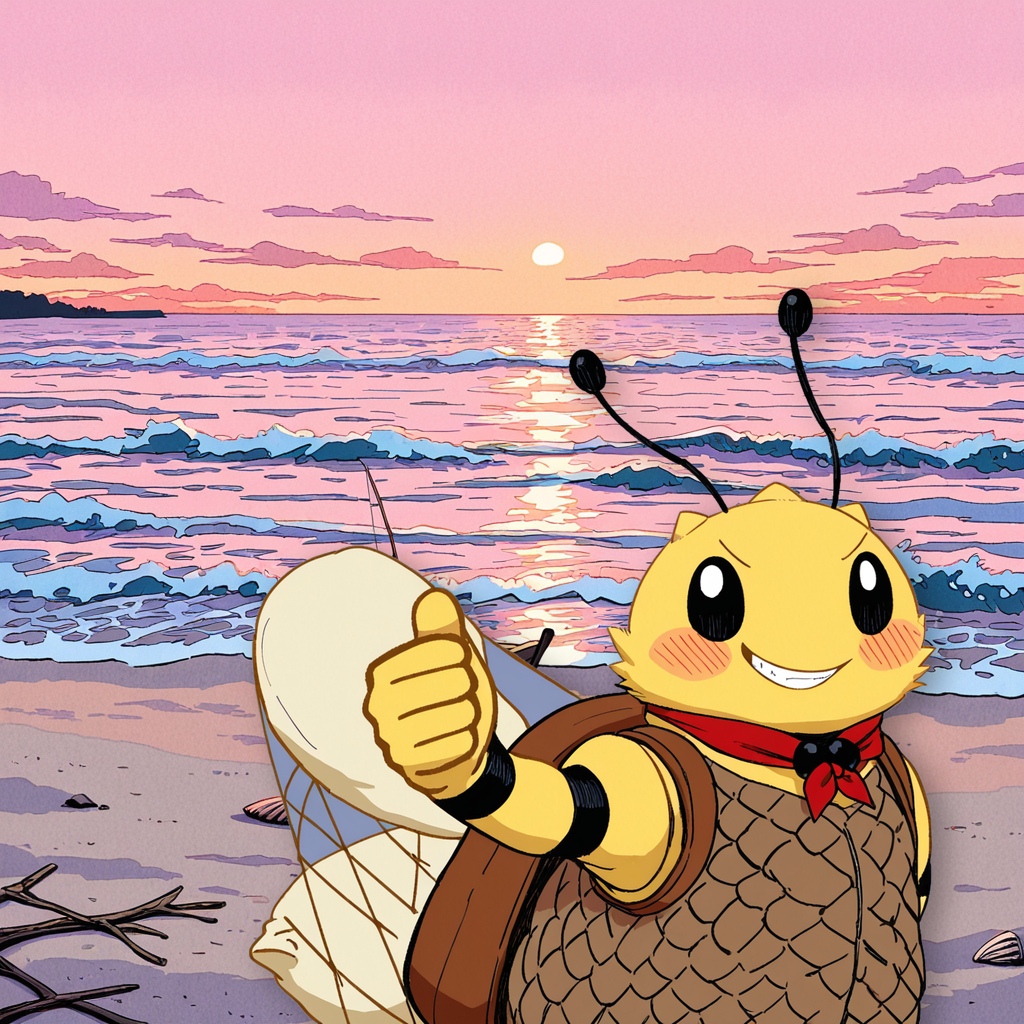
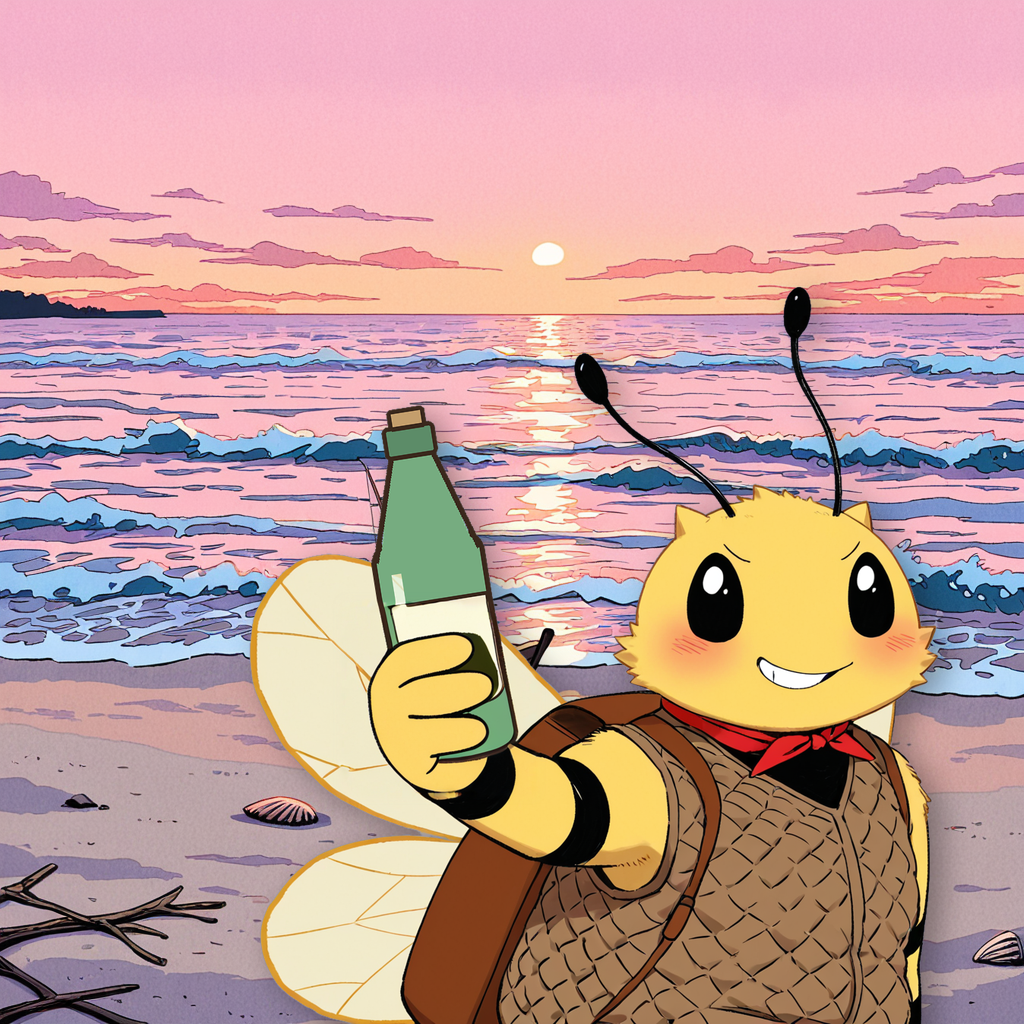
Season 1 art test: Clean Shore holds up a collected bottle
Claude-Session: https://claude.ai/code/session_01HWHP3iugw8gkvvKKS5vpBj

diff --git a/art/season1/bottle.py b/art/season1/bottle.py
@@ -1,0 +1,30 @@
+#!/usr/bin/env python3
+"""Season 1, Clean Shore: the collected bottle. The net of bottles failed painted (fix.py) and drawn (props.py shore), so the idea is
+simpler: the Vanguard holds up one bottle found on the beach. A glass bottle is drawn over a Vanguard render with a raised fist and
+the fist put back on top (as pole.py); fix.py with DENOISE=0.68 then wraps the fingers around it.
+Usage (WebUI venv python): bottle.py <render.png> <fist x0,y0,x1,y1> → clean_shore_bee_bottle.png"""
+import sys, pathlib
+import numpy as np, cv2
+from PIL import Image, ImageDraw, ImageFilter
+D = pathlib.Path(__file__).parent; INK = (58, 40, 28, 255); GLASS = (118, 172, 128, 255)
+src = Image.open(D/sys.argv[1]).convert("RGB"); x0, y0, x1, y1 = [int(v) for v in sys.argv[2].split(",")]
+a = np.asarray(src); hsv = cv2.cvtColor(a, cv2.COLOR_RGB2HSV)
+fist = (((hsv[..., 1] > 110) & (hsv[..., 0] > 12) & (hsv[..., 0] < 40)) | (hsv[..., 2] < 70)).astype(np.uint8)
+box = np.zeros_like(fist); cv2.ellipse(box, ((x0 + x1)//2, (y0 + y1)//2), ((x1 - x0)//2, (y1 - y0)//2), 0, 0, 360, 1, -1); fist &= box
+fist = cv2.morphologyEx(fist, cv2.MORPH_CLOSE, np.ones((15, 15), np.uint8))
+n, lab, st, _ = cv2.connectedComponentsWithStats(fist, 4); fist = (lab == 1 + np.argmax(st[1:, cv2.CC_STAT_AREA])).astype(np.uint8)
+cnt, _ = cv2.findContours(fist, cv2.RETR_EXTERNAL, cv2.CHAIN_APPROX_SIMPLE); cv2.drawContours(fist, cnt, -1, 1, -1)
+W, H = 150, 470; B = Image.new("RGBA", (W + 40, H + 40), (0, 0, 0, 0)); d = ImageDraw.Draw(B); ox = oy = 20
+d.rounded_rectangle((ox, oy + 170, ox + W, oy + H), 30, fill=GLASS, outline=INK, width=7)                                    # body
+d.polygon([(ox + 14, oy + 190), (ox + 48, oy + 60), (ox + W - 48, oy + 60), (ox + W - 14, oy + 190)], fill=GLASS)            # shoulder and neck
+d.line([(ox + 6, oy + 196), (ox + 48, oy + 60)], fill=INK, width=7); d.line([(ox + W - 6, oy + 196), (ox + W - 48, oy + 60)], fill=INK, width=7)
+d.rounded_rectangle((ox + 40, oy + 22, ox + W - 40, oy + 66), 8, fill=(92, 140, 104, 255), outline=INK, width=6)             # lip
+d.rounded_rectangle((ox + 50, oy, ox + W - 50, oy + 28), 6, fill=(196, 158, 108, 255), outline=INK, width=6)                 # cork
+d.line([(ox + 30, oy + 215), (ox + 30, oy + H - 50)], fill=(226, 244, 226, 190), width=13)                                   # highlight
+d.rectangle((ox + 4, oy + 255, ox + W - 4, oy + 350), fill=(244, 234, 208, 255), outline=INK, width=5)                       # a worn blank label
+d.line([(ox + 24, oy + 285), (ox + W - 24, oy + 285)], fill=(150, 120, 88, 255), width=4); d.line([(ox + 24, oy + 315), (ox + W - 50, oy + 315)], fill=(150, 120, 88, 255), width=4)
+B = B.rotate(9, resample=Image.BICUBIC, expand=True)
+cx, bottom = (x0 + x1)//2 - 6, y1 + 22
+out = src.convert("RGBA"); out.alpha_composite(B, (cx - B.width//2, bottom - B.height))
+out.paste(src, (0, 0), Image.fromarray(fist*255).filter(ImageFilter.GaussianBlur(0.8)))
+out.convert("RGB").save(D/"clean_shore_bee_bottle.png"); print("clean_shore_bee_bottle.png")

diff --git a/art/season1/compose.py b/art/season1/compose.py
@@ -23,7 +23,7 @@ PICKS = {  # card: bee render, scene, size of the bee (1 = full width), x of its
  "mountain_pass": dict(bee="mountain_pass_bee_d70_84003.png", scene="mountain_pass_scene_72002.png", scale=0.76, x=-60),
  "storm_flight": dict(bee="storm_flight_bee_d80_71004.png", scene="storm_flight_scene_72001.png", scale=0.76, x=-60),
  "twelve_flags": dict(bee="twelve_flags_bee_d64_71004.png", scene="twelve_flags_scene_72004.png", scale=0.76, x=-90),
- "clean_shore": dict(bee="clean_shore_bee_d64_71002.png", scene="clean_shore_scene_72001.png", scale=0.76, x=230),
+ "clean_shore": dict(bee="clean_shore_bee_grip.png", scene="clean_shore_scene_72001.png", scale=0.76, x=230),
  "golden_hour": dict(bee="golden_hour_bee_d70_84003.png", scene="golden_hour_scene_72004.png", scale=0.78, x=-80),
  "great_hive": dict(bee="great_hive_bee_d70_84004.png", scene="great_hive_scene_72003.png", scale=0.8, x=110),
  "world_walker": dict(bee="world_walker_bee_d74_81003.png", scene="world_walker_land_scene_83003.png", scale=0.78, x=-90),

diff --git a/art/season1/props.py b/art/season1/props.py
@@ -86,4 +86,4 @@ def oak():         # a small hand out of the cloak, holding a seedling in a clay
     for fx in (x - 2, x + 28, x + 58): d.arc((fx - 16, y - 40, fx + 16, y + 14), 20, 160, fill=INK, width=5)   # finger tips over the pot's foot
     im.convert("RGB").save(D/"old_oak_bee_prop.png")
 
-for f in (refill, hive, rain, oak): f(); print(f.__name__)   # shore(): the net mask still comes out ragged, not used yet
+for f in (refill, hive, rain, oak): f(); print(f.__name__)   # shore(): the net mask came out ragged; Clean Shore now uses bottle.py (one bottle held up)
